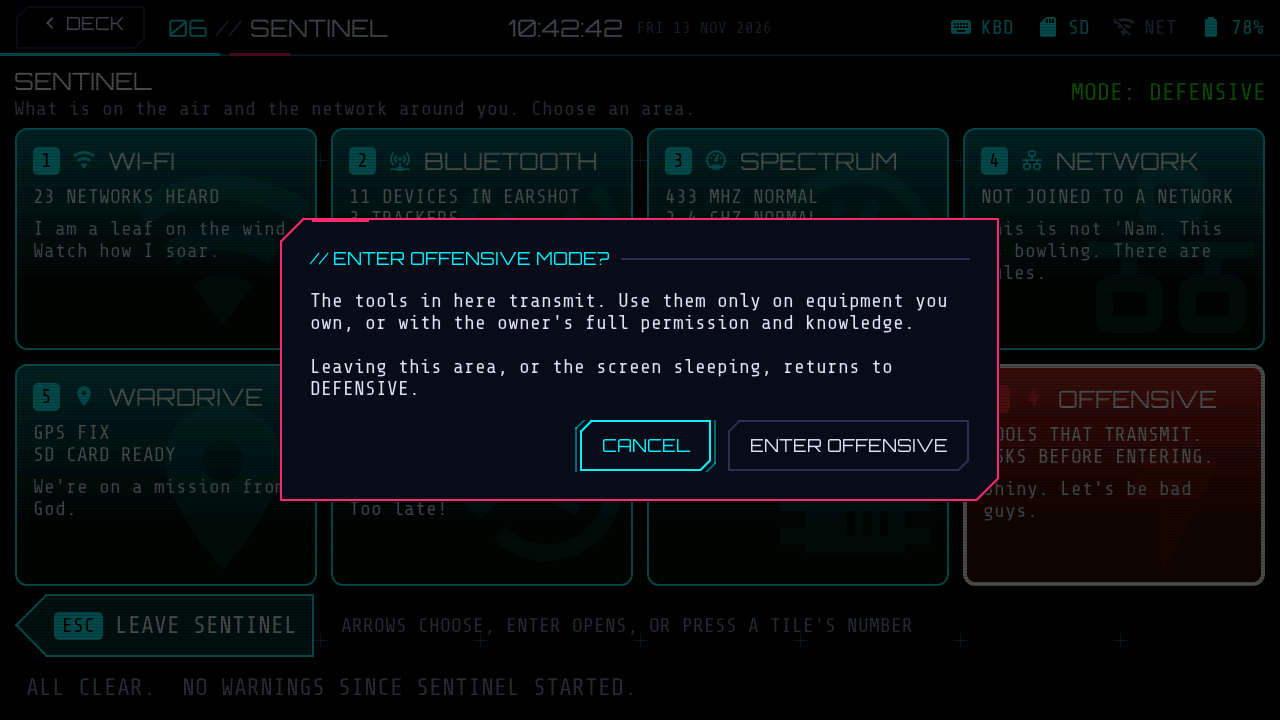
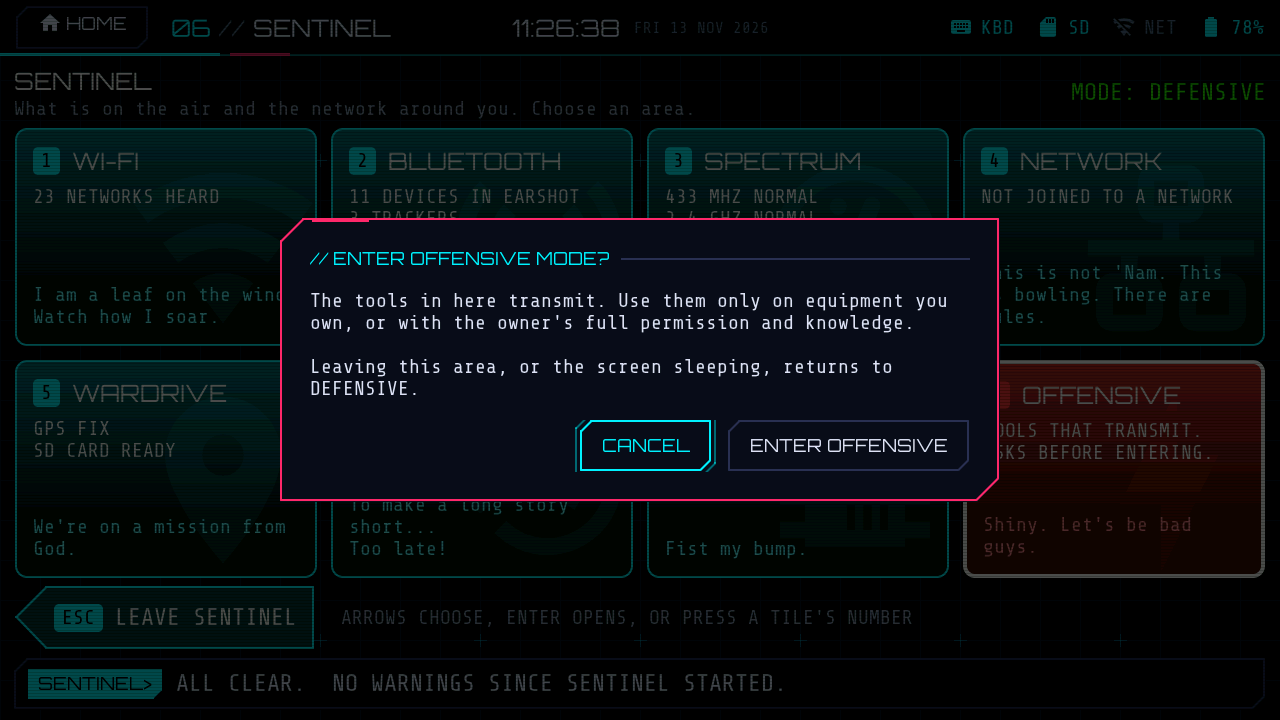
SENTINEL: quotes at the tile's foot, home-style alert bar, HOME button
- A tile's film line sits at its foot in a tint of the tile's colour, so
  it cannot be taken for the status under the name.
- The small icon beside each tile's name is gone; the large faint one
  behind the text does that job.
- The alert line is built like the info bar on the home screen: a
  chamfered panel with a filled tag that says SENTINEL, WARNING or ALERT.
- The status bar's top-left button says HOME and always goes to the home
  screen, in every app. It used to say DECK or BACK and go back a level;
  that is Esc, Del, or a module's own BACK.

Screenshots redone.

diff --git a/apps/app_sentinel/sn_frame.c b/apps/app_sentinel/sn_frame.c
@@ -27,7 +27,7 @@
 #define TILE_MAX  8
 #define TICK_MS   500
 #define BAR_H     64
-#define STRIP_H   44
+#define STRIP_H   52 /* the height of the info bar on the DECK//OS home screen */
 #define ROW_H     50
 #define WARN_HOLD_MS  120000u /* how long a warning stays on the alert line */
 #define ALERT_HOLD_MS 300000u
@@ -49,7 +49,7 @@ static struct {
     sn_mode_t          mode;
     const sn_screen_t *pending; /* the OFFENSIVE menu, while its question is up */
     const sn_screen_t *log;     /* what the alert line opens */
-    lv_obj_t          *crumb, *purpose, *chip, *strip, *strip_text, *strip_cap, *body, *bar;
+    lv_obj_t          *crumb, *purpose, *chip, *strip, *strip_tag, *strip_tag_text, *strip_text, *strip_cap, *body, *bar;
     lv_obj_t          *tile[TILE_MAX], *tile_line[TILE_MAX], *tile_mark[TILE_MAX], *tile_quote[TILE_MAX];
     action_t           act[ACT_MAX];
     int                nact;
@@ -683,12 +683,14 @@ static void menu_build(const sn_screen_t *m)
         char num[4];
         snprintf(num, sizeof(num), "%d", i + 1);
         keycap(head, num, c);
-        if (k->icon) label(head, g_font.icon_s, c, k->icon);
         lv_obj_t *name = label(head, g_font.disp_m, lv_color_white(), k->name);
         lv_obj_set_flex_grow(name, 1);
         s_fr.tile_mark[i] = label(head, g_font.disp_m, g_pal.warn, "");
         s_fr.tile_line[i]  = wrapped(t, g_font.mono_m, lv_color_white());
-        s_fr.tile_quote[i] = wrapped(t, g_font.mono_m, g_pal.text); /* mixed case sets it apart from the status above it */
+        /* The film line is set apart twice: it sits at the foot of the tile, and it is in the tile's own colour. */
+        lv_obj_t *gap = plain(t);
+        lv_obj_set_flex_grow(gap, 1);
+        s_fr.tile_quote[i] = wrapped(t, g_font.mono_m, lv_color_mix(c, lv_color_white(), 150));
         if (k->quote) lv_label_set_text(s_fr.tile_quote[i], k->quote);
         else lv_obj_add_flag(s_fr.tile_quote[i], LV_OBJ_FLAG_HIDDEN);
         lv_obj_add_event_cb(t, tile_clicked, LV_EVENT_CLICKED, (void *)(intptr_t)i);
@@ -740,18 +742,18 @@ static void strip_clicked(lv_event_t *e)
     strip_open();
 }
 
+/* The bar along the bottom, built like the info bar on the DECK//OS home
+ * screen: a chamfered panel with a filled tag at its left end. The tag says
+ * what kind of line it is, so the level is a word as well as a colour. */
 static void strip_set(sn_level_t level, bool active, const char *text)
 {
-    lv_color_t c = sn_level_color(level);
+    lv_color_t c = active ? sn_level_color(level) : level == SN_NOTE ? g_pal.accent : g_pal.warn;
     s_fr.strip_active = active && s_fr.log && top() != s_fr.log;
-    if (active) {
-        control_style(s_fr.strip, c, 8);
-        lv_obj_set_style_bg_color(s_fr.strip, lv_color_mix(c, g_pal.bg, level == SN_ALERT ? 110 : 60), 0);
-        lv_obj_set_style_bg_color(s_fr.strip_cap, c, 0);
-    } else {
-        lv_obj_set_style_bg_opa(s_fr.strip, LV_OPA_TRANSP, 0);
-        lv_obj_set_style_border_width(s_fr.strip, 0, 0);
-    }
+    deck_panel_set_outline(s_fr.strip, active ? c : g_pal.line);
+    deck_panel_set_fill(s_fr.strip_tag, c);
+    deck_panel_set_outline(s_fr.strip_tag, c);
+    sn_set(s_fr.strip_tag_text, g_pal.bg, "%s", !active ? "SENTINEL>" : level == SN_ALERT ? "ALERT>" : "WARNING>");
+    lv_obj_set_style_bg_color(s_fr.strip_cap, c, 0);
     if (s_fr.strip_active) {
         lv_obj_add_flag(s_fr.strip, LV_OBJ_FLAG_CLICKABLE);
         lv_obj_remove_flag(s_fr.strip_cap, LV_OBJ_FLAG_HIDDEN);
@@ -759,7 +761,7 @@ static void strip_set(sn_level_t level, bool active, const char *text)
         lv_obj_remove_flag(s_fr.strip, LV_OBJ_FLAG_CLICKABLE);
         lv_obj_add_flag(s_fr.strip_cap, LV_OBJ_FLAG_HIDDEN);
     }
-    sn_set(s_fr.strip_text, active ? lv_color_white() : level == SN_NOTE ? g_pal.label : c, "%s", text);
+    sn_set(s_fr.strip_text, active ? lv_color_white() : level == SN_NOTE ? g_pal.text : c, "%s", text);
 }
 
 static void strip_update(void)
@@ -790,14 +792,14 @@ static void strip_update(void)
     }
     /* A band that is up now is an alert for as long as it lasts, whatever the events' ages. */
     if (bl < SN_ALERT && st->nrf_band == SENTINEL_BAND_UP) {
-        snprintf(text, sizeof(text), "!!  2.4 GHZ BAND SATURATED: %u CHANNELS SOLID, NOW", (unsigned)st->nrf_band_ch);
+        snprintf(text, sizeof(text), "2.4 GHZ BAND SATURATED: %u CHANNELS SOLID, NOW", (unsigned)st->nrf_band_ch);
         strip_set(SN_ALERT, true, text);
     } else if (bl < SN_ALERT && st->sub_band == SENTINEL_BAND_UP) {
-        snprintf(text, sizeof(text), "!!  433 MHZ BAND UP %d DB ACROSS %u CHANNELS, NOW", (int)st->sub_band_db, (unsigned)st->sub_band_ch);
+        snprintf(text, sizeof(text), "433 MHZ BAND UP %d DB ACROSS %u CHANNELS, NOW", (int)st->sub_band_db, (unsigned)st->sub_band_ch);
         strip_set(SN_ALERT, true, text);
     } else if (best) {
         sn_fmt_span(span, sizeof(span), now - best->ms);
-        snprintf(text, sizeof(text), "%s  %s   (%s AGO)", sn_level_mark(bl), best->text, span);
+        snprintf(text, sizeof(text), "%s   (%s AGO)", best->text, span);
         strip_set(bl, true, text);
     } else if (last) {
         sn_fmt_span(span, sizeof(span), now - last->ms);
@@ -812,7 +814,7 @@ static void strip_update(void)
 
 static void forget_widgets(void)
 {
-    s_fr.crumb = s_fr.purpose = s_fr.chip = s_fr.strip = s_fr.strip_text = s_fr.strip_cap = s_fr.body = s_fr.bar = NULL;
+    s_fr.crumb = s_fr.purpose = s_fr.chip = s_fr.strip = s_fr.strip_tag = s_fr.strip_tag_text = s_fr.strip_text = s_fr.strip_cap = s_fr.body = s_fr.bar = NULL;
     memset(s_fr.tile, 0, sizeof(s_fr.tile));
     memset(s_fr.tile_line, 0, sizeof(s_fr.tile_line));
     memset(s_fr.tile_mark, 0, sizeof(s_fr.tile_mark));
@@ -895,16 +897,19 @@ static void show(void)
     lv_obj_set_style_pad_column(s_fr.bar, 10, 0);
     sn_action(0, "ESC", s_fr.depth > 1 ? "BACK" : "LEAVE SENTINEL", sn_back);
 
-    /* 4. The alert line, along the bottom edge: where the info line is on the DECK//OS home screen. */
-    s_fr.strip = lv_obj_create(root);
-    lv_obj_remove_style_all(s_fr.strip);
-    lv_obj_remove_flag(s_fr.strip, LV_OBJ_FLAG_SCROLLABLE);
+    /* 4. The alert line, along the bottom edge: the same bar the DECK//OS home screen has there. */
+    s_fr.strip = deck_panel(root, DECK_CUT_TL | DECK_CUT_BR, 12);
     lv_obj_set_size(s_fr.strip, LV_PCT(100), STRIP_H);
-    lv_obj_set_style_pad_hor(s_fr.strip, 12, 0);
-    lv_obj_set_style_pad_column(s_fr.strip, 12, 0);
+    lv_obj_set_style_pad_hor(s_fr.strip, 14, 0);
+    lv_obj_set_style_pad_column(s_fr.strip, 14, 0);
     lv_obj_set_flex_flow(s_fr.strip, LV_FLEX_FLOW_ROW);
     lv_obj_set_flex_align(s_fr.strip, LV_FLEX_ALIGN_START, LV_FLEX_ALIGN_CENTER, LV_FLEX_ALIGN_CENTER);
-    s_fr.strip_text = label(s_fr.strip, g_font.mono_b, g_pal.label, "");
+    s_fr.strip_tag = deck_panel(s_fr.strip, DECK_CUT_BR, 8);
+    lv_obj_set_size(s_fr.strip_tag, LV_SIZE_CONTENT, 30);
+    lv_obj_set_style_pad_hor(s_fr.strip_tag, 10, 0);
+    s_fr.strip_tag_text = label(s_fr.strip_tag, g_font.disp_s, g_pal.bg, "SENTINEL>");
+    lv_obj_center(s_fr.strip_tag_text);
+    s_fr.strip_text = label(s_fr.strip, g_font.mono_b, g_pal.text, "");
     lv_obj_set_flex_grow(s_fr.strip_text, 1);
     lv_label_set_long_mode(s_fr.strip_text, LV_LABEL_LONG_MODE_DOTS);
     lv_obj_set_height(s_fr.strip_text, lv_font_get_line_height(g_font.mono_b));

diff --git a/components/deck_core/deck_statusbar.c b/components/deck_core/deck_statusbar.c
@@ -40,10 +40,13 @@ static lv_obj_t *s_flag;  /* an app's standing flag, e.g. RED TEAM */
 static lv_obj_t *s_alert; /* unseen warnings */
 static lv_timer_t *s_timer;
 
-static void back_clicked(lv_event_t *e)
+/* The button in the top left is HOME, wherever you are: it never means
+ * "back one level", so nobody has to guess where it goes. Going back a level
+ * is Esc, Del, or a module's own BACK. */
+static void home_clicked(lv_event_t *e)
 {
     (void)e;
-    deck_shell_back();
+    deck_shell_home();
 }
 
 static void music_clicked(lv_event_t *e)
@@ -87,21 +90,19 @@ static void build_left(deck_group_t *group, deck_app_t *app)
     lv_obj_remove_flag(s_clock, LV_OBJ_FLAG_HIDDEN);
     lv_obj_remove_flag(s_date, LV_OBJ_FLAG_HIDDEN);
     lv_obj_add_flag(s_ver, LV_OBJ_FLAG_HIDDEN);
-    /* Inside a group the button goes back to the group screen; the path
-     * beside it already names the group, so keep the button short. */
-    lv_obj_t *back = deck_button(s_left, app && group ? "BACK" : "DECK", g_font.disp_s);
-    /* Prepend a chevron icon to the button's label. */
+    lv_obj_t *back = deck_button(s_left, "HOME", g_font.disp_s);
+    /* Prepend a house icon to the button's label. */
     lv_obj_set_flex_flow(back, LV_FLEX_FLOW_ROW);
     lv_obj_set_flex_align(back, LV_FLEX_ALIGN_CENTER, LV_FLEX_ALIGN_CENTER, LV_FLEX_ALIGN_CENTER);
     lv_obj_set_style_pad_column(back, 4, 0);
     lv_obj_t *chev = lv_label_create(back);
     lv_obj_set_style_text_font(chev, g_font.icon_s, 0);
-    lv_label_set_text(chev, ICON_CHEVRON_LEFT);
+    lv_label_set_text(chev, ICON_HOME);
     lv_obj_move_to_index(chev, 0);
     lv_obj_set_style_min_height(back, 44, 0);
     lv_obj_set_style_pad_ver(back, 6, 0);
-    lv_obj_add_event_cb(back, back_clicked, LV_EVENT_CLICKED, NULL);
-    /* Keyboard users have Esc; keep the back button out of Tab order. */
+    lv_obj_add_event_cb(back, home_clicked, LV_EVENT_CLICKED, NULL);
+    /* Keyboard users have Alt+Esc; keep the button out of Tab order. */
     lv_group_remove_obj(back);
 
     /* Path: "01 // TOOLS" on a group screen or a home tile's app,

diff --git a/README.md b/README.md
@@ -50,8 +50,8 @@ deck's own Wi-Fi and work without it.
 
 **One purpose per screen.** SENTINEL opens on a page of eight tiles. Each
 tile is a button that also shows its area's headline, so the page is the
-menu and the overview at once. (Under the headline each tile carries a line
-from a film, for fun, and its icon again, large and faint, behind it.) Under the tiles are 25 screens that each
+menu and the overview at once. (Each tile has its icon, large and faint,
+behind its text, and a line from a film at its foot, for fun.) Under the tiles are 25 screens that each
 answer one question:
 
 | Area | Screens |
@@ -67,15 +67,19 @@ answer one question:
 
 Every screen has the same four things, top to bottom: where you are and why
 (`SENTINEL > WI-FI > NETWORKS` and a sentence), the one thing the screen is
-for, a bar of buttons, and the alert line along the bottom edge. A button shows its key and
+for, a bar of buttons, and the alert line along the bottom edge, drawn like
+the info bar on the home screen. A button shows its key and
 what it does (`S  START A SURVEY`); pressing the key and tapping the button
 are the same. Only buttons, tiles and list rows look like something to
 press. Nothing is smaller than 20 px, and explanations are behind HELP.
-BACK (Esc, Del, or the button with the arrow head) goes up one level.
+BACK (Esc, Del, or the button with the arrow head) goes up one level. The
+HOME button in the top left of the status bar always goes to the DECK//OS
+home screen, in SENTINEL and in every other app.
 
 **Warnings land wherever you are.** The alert line is on every SENTINEL
-screen. Quiet, it says ALL CLEAR. Otherwise it shows the latest warning and
-its age, and `L` or a tap opens the LOG. There are three levels, each with a
+screen. Quiet, its tag says SENTINEL and the line says ALL CLEAR. Otherwise
+the tag says WARNING or ALERT and the line shows the latest one and its age,
+and `L` or a tap opens the LOG. There are three levels, each with a
 mark as well as a colour:
 
 - a note is written to the log and nothing else (a tracker first heard, a
@@ -362,7 +366,7 @@ See [ROADMAP.md](ROADMAP.md) for v0.2 onward.
 | Arrows, `Enter`, or `1..6` | Pick a tile on the home screen or in APPS |
 | `Tab`, arrows | Move focus inside a module |
 
-Everything is also reachable by touch: tiles, panel sections, the `< DECK` back button and on-screen controls.
+Everything is also reachable by touch: tiles, panel sections, the HOME button in the top left (it always goes to the home screen) and on-screen controls.
 
 ## Install from the browser
 

diff --git a/docs/superpowers/specs/2026-11-13-sentinel-restructure-design.md b/docs/superpowers/specs/2026-11-13-sentinel-restructure-design.md
@@ -198,3 +198,19 @@ quiet" as NOTEs.
   the faint icons and 250 to 360 ms with them, so they cost 30 to 45 ms a
   page. Their glyph cache settles at about 500 K of PSRAM and does not
   grow on a second pass. Free internal memory is unchanged.
+
+## A second round of changes (2026-11-13)
+
+- The film line sits at the foot of its tile, in a light tint of the
+  tile's own colour, so it cannot be taken for the status above it.
+- The small icon beside each tile's name is gone: the large faint one
+  behind the text does that job.
+- The alert line is built like the info bar on the DECK//OS home screen: a
+  chamfered panel with a filled tag at its left end. The tag says SENTINEL
+  when quiet and WARNING or ALERT otherwise, so the level is a word as well
+  as a colour, and the marks in front of the text went.
+- The status bar's top-left button says HOME and always goes to the home
+  screen, in every app (`deck_statusbar.c`). It used to say DECK or BACK and
+  go back one level. Going back a level is Esc, Del, or a module's own BACK.
+  Leaving WARDRIVE by HOME ends a running drive without asking, as an Alt
+  shortcut to another app always did; only BACK asks.
